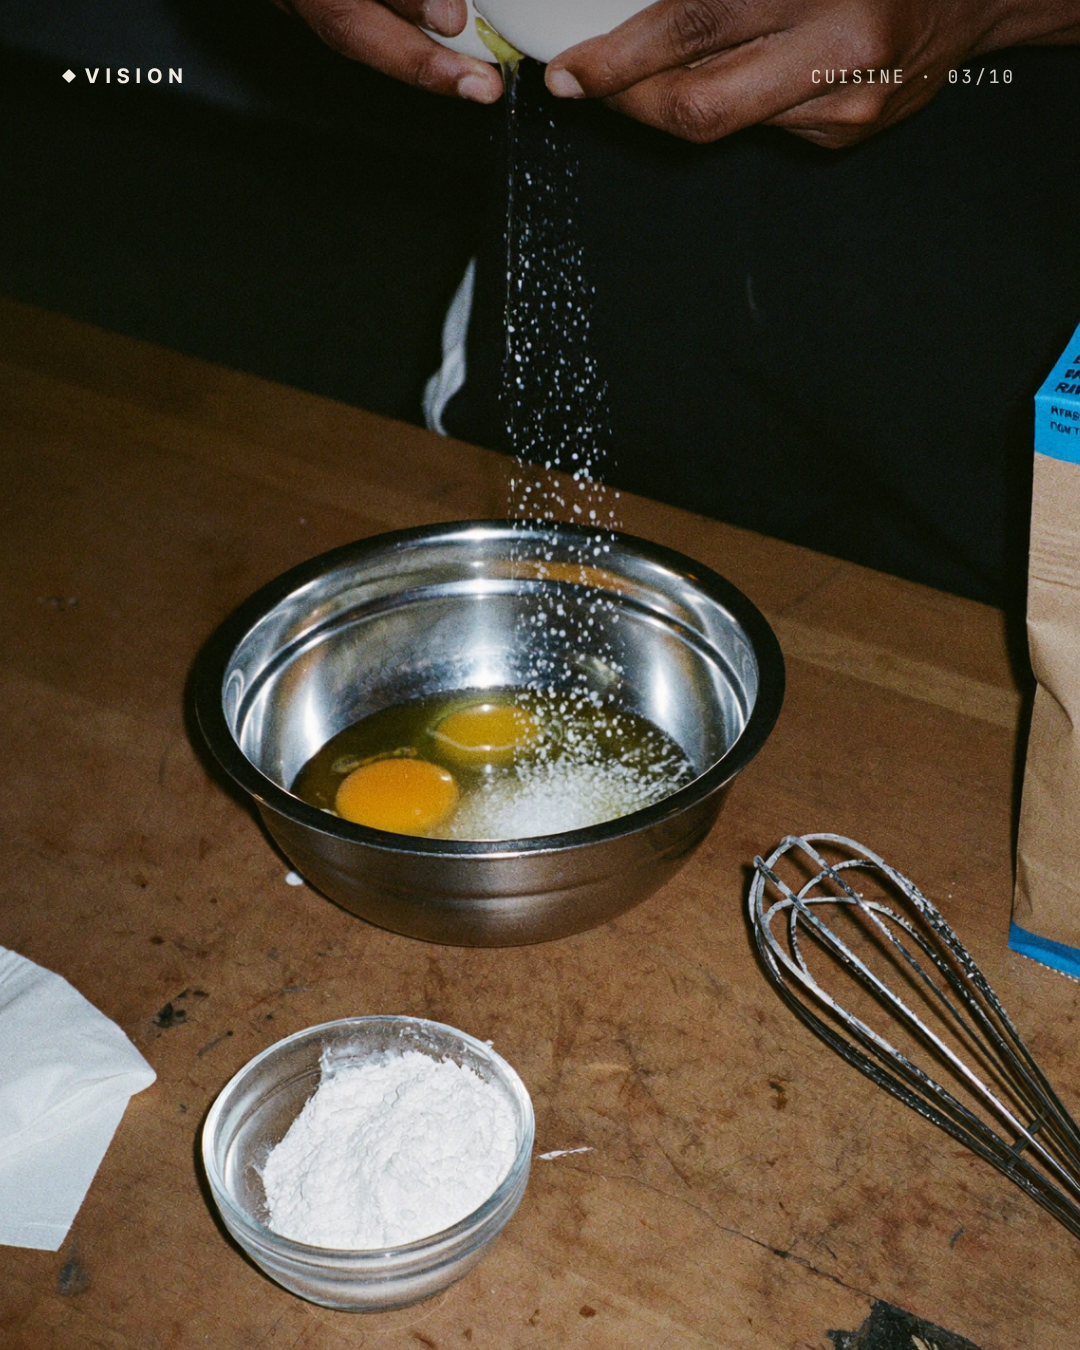
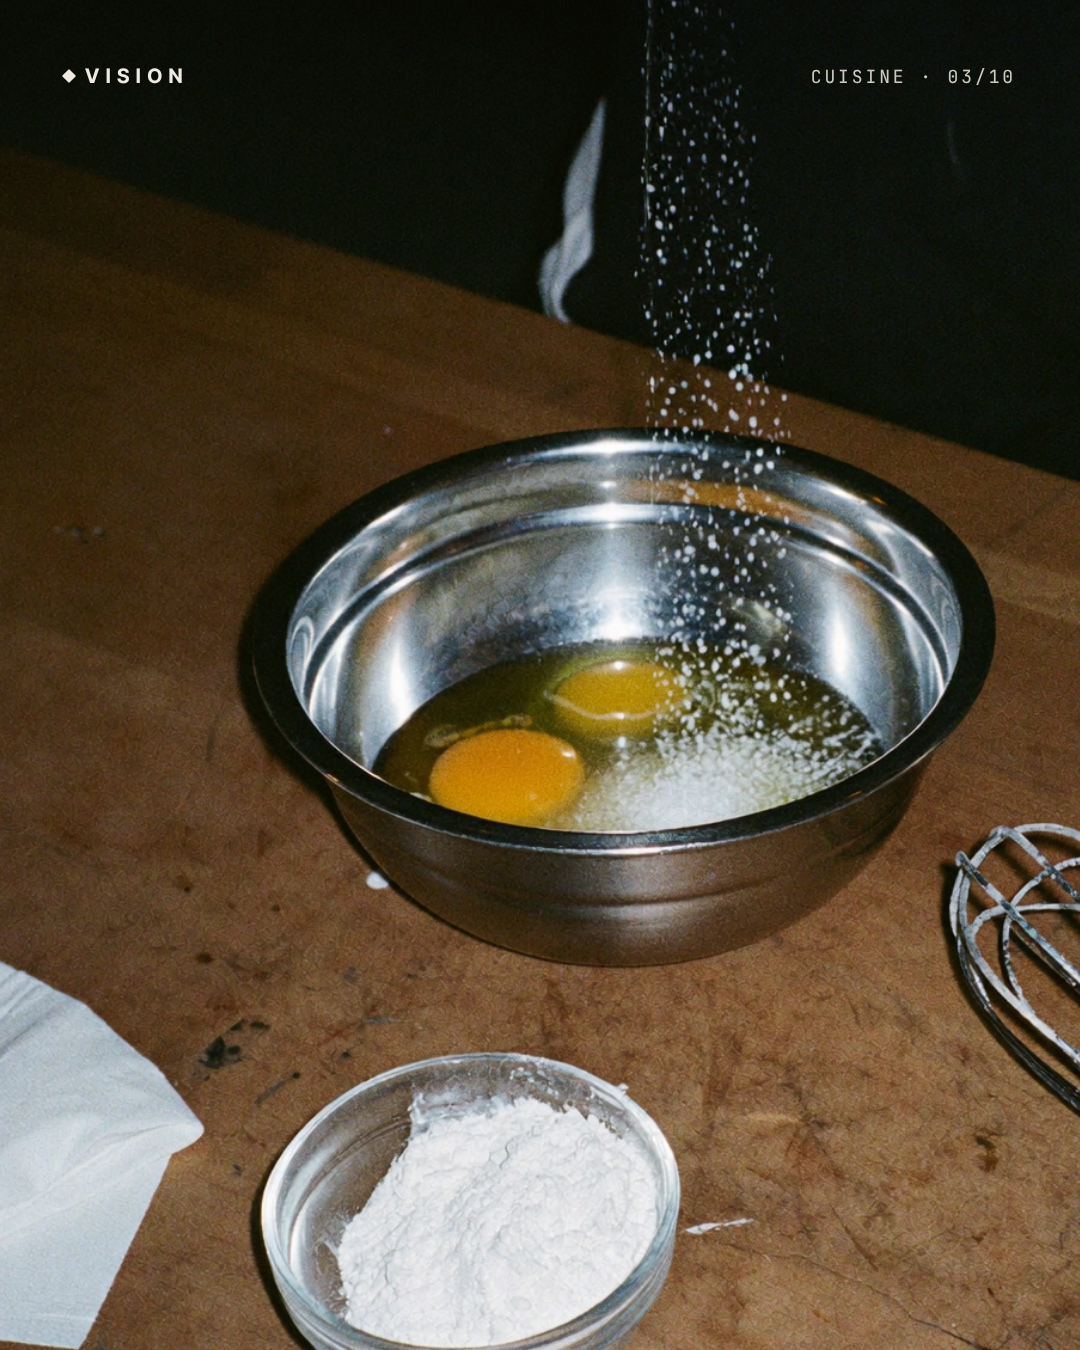
vision-agency: recadrages finaux carrousel Cuisine (02, 09)
Claude-Session: https://claude.ai/code/session_01V1feumjpgTsp4ZvABkd22U

diff --git a/vision-agency/src/carousel/carousels.ts b/vision-agency/src/carousel/carousels.ts
@@ -50,14 +50,14 @@ export const carousels: CarouselDef[] = [
 		kicker: 'Cuisine',
 		slides: [
 			{kind: 'text', title: 'Ce que vos clients\nne voient jamais.', sub: '9h du matin, en cuisine.'},
-			{kind: 'photo', photo: '36.png', focus: '62% 28%', zoom: 1.65},
+			{kind: 'photo', photo: '36.png', focus: '68% 22%', zoom: 1.8},
 			{kind: 'photo', photo: '31.png', focus: '18% 58%', zoom: 1.7},
 			{kind: 'photo', photo: '32.png'},
 			{kind: 'photo', photo: '35.png', focus: '50% 85%', zoom: 1.3},
 			{kind: 'photo', photo: '33.png'},
 			{kind: 'photo', photo: '34.png'},
 			{kind: 'photo', photo: '37.png'},
-			{kind: 'photo', photo: '38.png', focus: '50% 50%', zoom: 1.72},
+			{kind: 'photo', photo: '38.png', focus: '50% 50%', zoom: 1.95},
 			{kind: 'text', title: 'On filme ça.\nEt ça remplit\nla salle.', sub: 'Le geste, l’ingrédient, la seconde juste avant le service. C’est ce qui donne envie de venir.\n×3 clients en moins de 90 jours.', gold: true},
 		],
 		caption: `Ce que vos clients ne voient jamais.\n\n9h du matin, en cuisine. Les œufs, la tomate, le poisson sur glace, le beurre qui mousse, la pâte, le fromage qu’on râpe. Tout ce qui donne envie de venir, et que personne ne montre. On le filme, chaque semaine.${SIGN}`,
